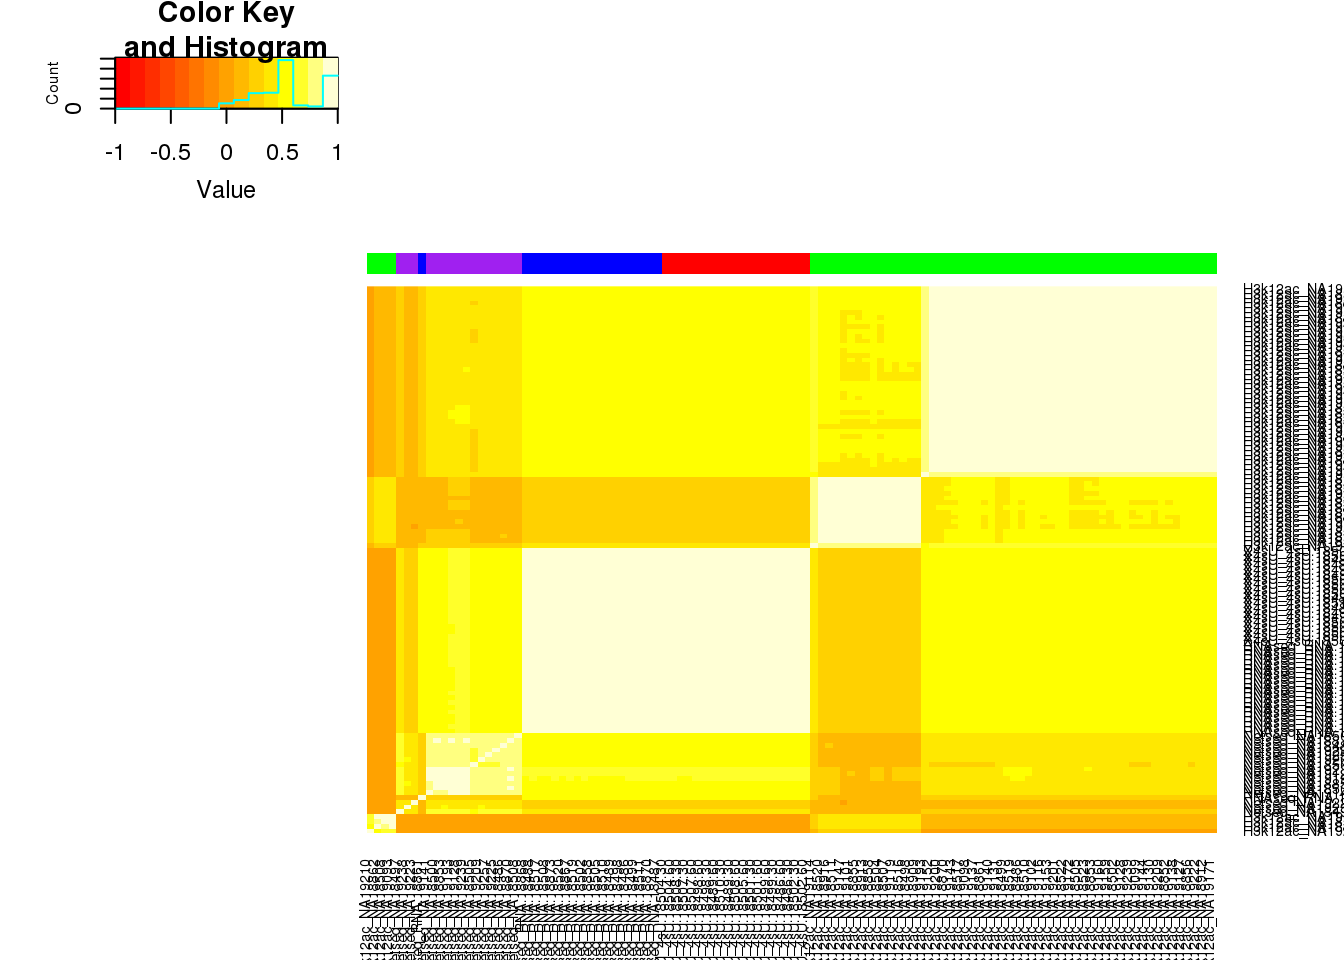
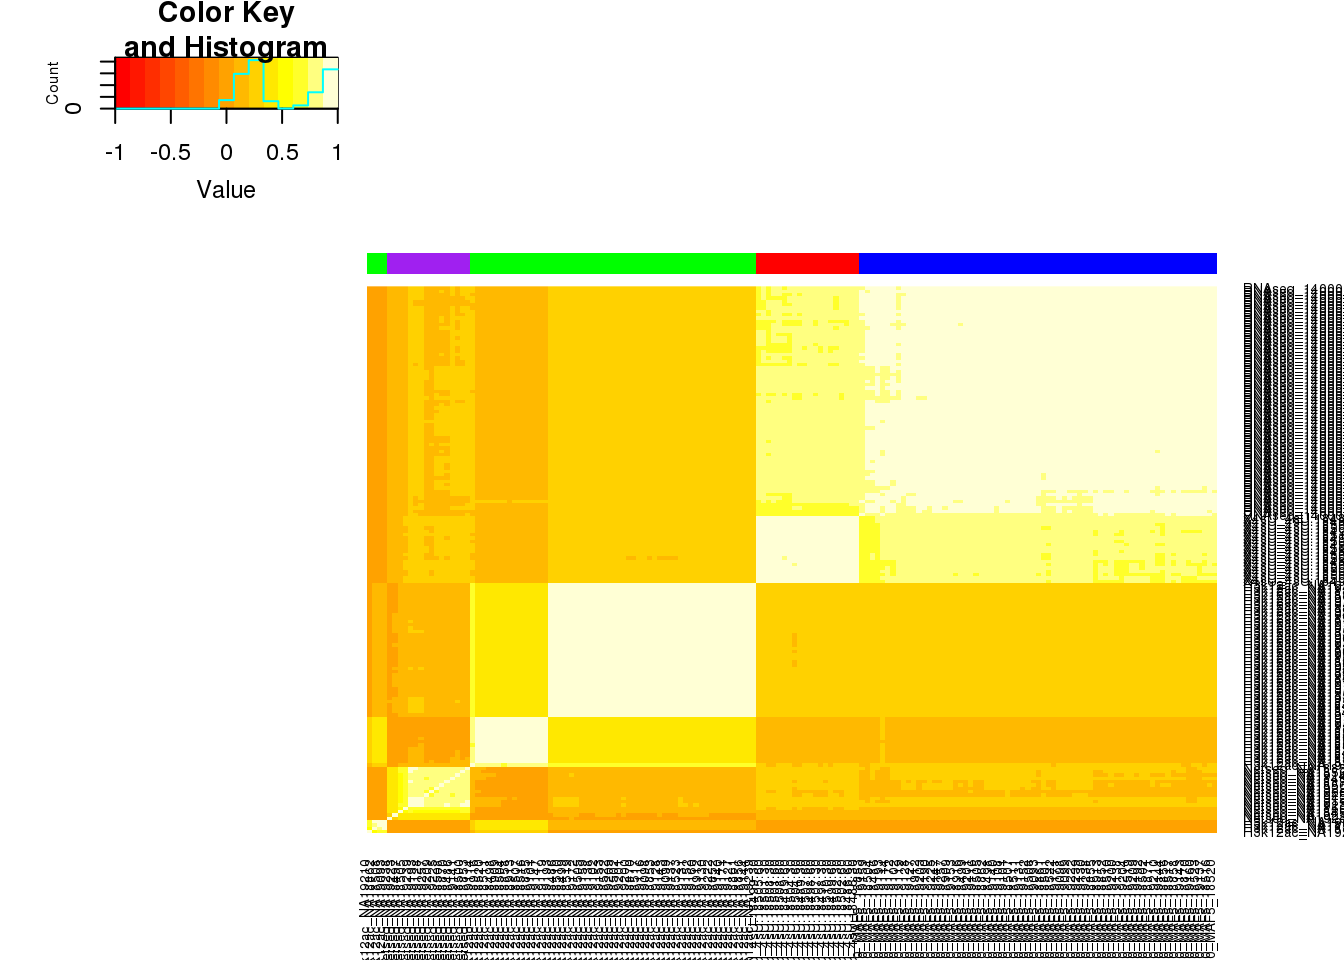
Build site.

diff --git a/docs/rna_netseq_h3k12ac.html b/docs/rna_netseq_h3k12ac.html
@@ -422,10 +422,10 @@ This reproducible <a href="http://rmarkdown.rstudio.com">R Markdown</a> analysis
 <div class="panel panel-default">
 <div class="panel-heading">
 <p class="panel-title">
-<a data-toggle="collapse" data-parent="#workflowr-checks" href="#strongRepositoryversionstrongahrefhttpsgithubcombrimittlemanapaQTLtree90e0c4d3381dc8c977bb44eccfb1766f9811ac63targetblank90e0c4da"> <span class="glyphicon glyphicon-ok text-success" aria-hidden="true"></span> <strong>Repository version:</strong> <a href="https://github.com/brimittleman/apaQTL/tree/90e0c4d3381dc8c977bb44eccfb1766f9811ac63" target="_blank">90e0c4d</a> </a>
+<a data-toggle="collapse" data-parent="#workflowr-checks" href="#strongRepositoryversionstrongahrefhttpsgithubcombrimittlemanapaQTLtree700e9daf3422326156f6e1f2104afd364b3407b1targetblank700e9daa"> <span class="glyphicon glyphicon-ok text-success" aria-hidden="true"></span> <strong>Repository version:</strong> <a href="https://github.com/brimittleman/apaQTL/tree/700e9daf3422326156f6e1f2104afd364b3407b1" target="_blank">700e9da</a> </a>
 </p>
 </div>
[2 lines of base64/hex data omitted]
 <div class="panel-body">
 <p>
 Great! You are using Git for version control. Tracking code development and connecting the code version to the results is critical for reproducibility. The version displayed above was the version of the Git repository at the time these results were generated. <br><br> Note that you need to be careful to ensure that all relevant files for the analysis have been committed to Git prior to generating the results (you can use <code>wflow_publish</code> or <code>wflow_git_commit</code>). workflowr only checks the R Markdown file, but you know if there are other scripts or data files that it depends on. Below is the status of the Git repository when the results were generated:
@@ -445,6 +445,7 @@ Untracked files:
     Untracked:  analysis/._PASdescriptiveplots.Rmd
     Untracked:  analysis/._cuttoffPercUsage.Rmd
     Untracked:  analysis/cuttoffPercUsage.Rmd
+    Untracked:  analysis/nascenttranscription.Rmd
     Untracked:  apaQTL.Rproj
     Untracked:  code/._FC_UTR.sh
     Untracked:  code/._FC_newPeaks_olddata.sh
@@ -678,6 +679,40 @@ Message
 Rmd
 </td>
 <td>
+<a href="https://github.com/brimittleman/apaQTL/blob/700e9daf3422326156f6e1f2104afd364b3407b1/analysis/rna_netseq_h3k12ac.Rmd" target="_blank">700e9da</a>
+</td>
+<td>
+brimittleman
+</td>
+<td>
+2019-05-15
+</td>
+<td>
+switch rna data
+</td>
+</tr>
+<tr>
+<td>
+html
+</td>
+<td>
+<a href="https://rawcdn.githack.com/brimittleman/apaQTL/35b1f6e7a8632c29546f5c5b768a1a3977bb2b74/docs/rna_netseq_h3k12ac.html" target="_blank">35b1f6e</a>
+</td>
+<td>
+brimittleman
+</td>
+<td>
+2019-05-15
+</td>
+<td>
+Build site.
+</td>
+</tr>
+<tr>
+<td>
+Rmd
+</td>
+<td>
 <a href="https://github.com/brimittleman/apaQTL/blob/90e0c4d3381dc8c977bb44eccfb1766f9811ac63/analysis/rna_netseq_h3k12ac.Rmd" target="_blank">90e0c4d</a>
 </td>
 <td>
@@ -754,7 +789,7 @@ Run ?workflowr for help getting started</code></pre>
 </div>
 <div id="rna-seq" class="section level2">
 <h2>RNA seq</h2>
-<pre class="r"><code>RNA=read.table(&quot;../data/fourSU/tr_decay_table_norm.txt&quot;, header=T, stringsAsFactors = F)%&gt;%  select(gene_id,contains(&quot;RNAseqGeuvadis&quot;)) %&gt;%  rename(&quot;ID&quot;=gene_id)</code></pre>
+<pre class="r"><code>RNA=read.table(&quot;../data/fourSU/tr_decay_table_norm.txt&quot;, header=T, stringsAsFactors = F)%&gt;%  select(gene_id,contains(&quot;RNAseq_14000&quot;)) %&gt;%  rename(&quot;ID&quot;=gene_id)</code></pre>
 <p>I also have the kalisto TPM that I can try:</p>
 <pre class="r"><code>RNA_TPM=read.table(&#39;../data/RNAseq/kallisto_RNAseq.txt&#39;, stringsAsFactors = F,header = T) %&gt;% rename(&quot;ID&quot;=gene)</code></pre>
 </div>
@@ -777,13 +812,50 @@ Run ?workflowr for help getting started</code></pre>
 <div id="correlation" class="section level2">
 <h2>Correlation:</h2>
 <p>I will join all of these based on the genes we have data for in all.</p>
-<pre class="r"><code>allpheno=foursu_tpm %&gt;% inner_join(h3k27ac, by=&quot;ID&quot;) %&gt;% inner_join(RNA_TPM, by=&quot;ID&quot;) %&gt;% inner_join(netseq, by=&quot;ID&quot;)</code></pre>
+<pre class="r"><code>allpheno=foursu_tpm %&gt;% inner_join(h3k27ac, by=&quot;ID&quot;) %&gt;% inner_join(RNA, by=&quot;ID&quot;) %&gt;% inner_join(netseq, by=&quot;ID&quot;)</code></pre>
 <pre class="r"><code>allpheno_matrix= as.matrix(allpheno %&gt;% select(-ID))</code></pre>
 <pre class="r"><code>allphenocorr= round(cor(allpheno_matrix,method=&quot;spearman&quot;),2)
 #4su, h3k27, RNA, netseq 
-colBar=c(rep(&quot;Red&quot;,20), rep(&quot;Green&quot;, 59), rep(&quot;Blue&quot;,20), rep(&quot;Purple&quot;, 16))
+colBar=c(rep(&quot;Red&quot;,20), rep(&quot;Green&quot;, 59), rep(&quot;Blue&quot;,69), rep(&quot;Purple&quot;, 16))
 heatmap.2(as.matrix(allphenocorr),trace=&quot;none&quot;, dendrogram=&#39;none&#39;,ColSideColors=colBar)</code></pre>
 <p><img src="figure/rna_netseq_h3k12ac.Rmd/unnamed-chunk-13-1.png" width="672" style="display: block; margin: auto;" /></p>
+<p>
+<button type="button" class="btn btn-default btn-xs btn-workflowr btn-workflowr-fig" data-toggle="collapse" data-target="#fig-unnamed-chunk-13-1">
+Past versions of unnamed-chunk-13-1.png
+</button>
+</p>
+<div id="fig-unnamed-chunk-13-1" class="collapse">
+<div class="table-responsive">
+<table class="table table-condensed table-hover">
+<thead>
+<tr>
+<th>
+Version
+</th>
+<th>
+Author
+</th>
+<th>
+Date
+</th>
+</tr>
+</thead>
+<tbody>
+<tr>
+<td>
+<a href="https://github.com/brimittleman/apaQTL/blob/35b1f6e7a8632c29546f5c5b768a1a3977bb2b74/docs/figure/rna_netseq_h3k12ac.Rmd/unnamed-chunk-13-1.png" target="_blank">35b1f6e</a>
+</td>
+<td>
+brimittleman
+</td>
+<td>
+2019-05-15
+</td>
+</tr>
+</tbody>
+</table>
+</div>
+</div>
 <br>
 <p>
 <button type="button" class="btn btn-default btn-workflowr btn-workflowr-sessioninfo" data-toggle="collapse" data-target="#workflowr-sessioninfo" style="display: block;">
